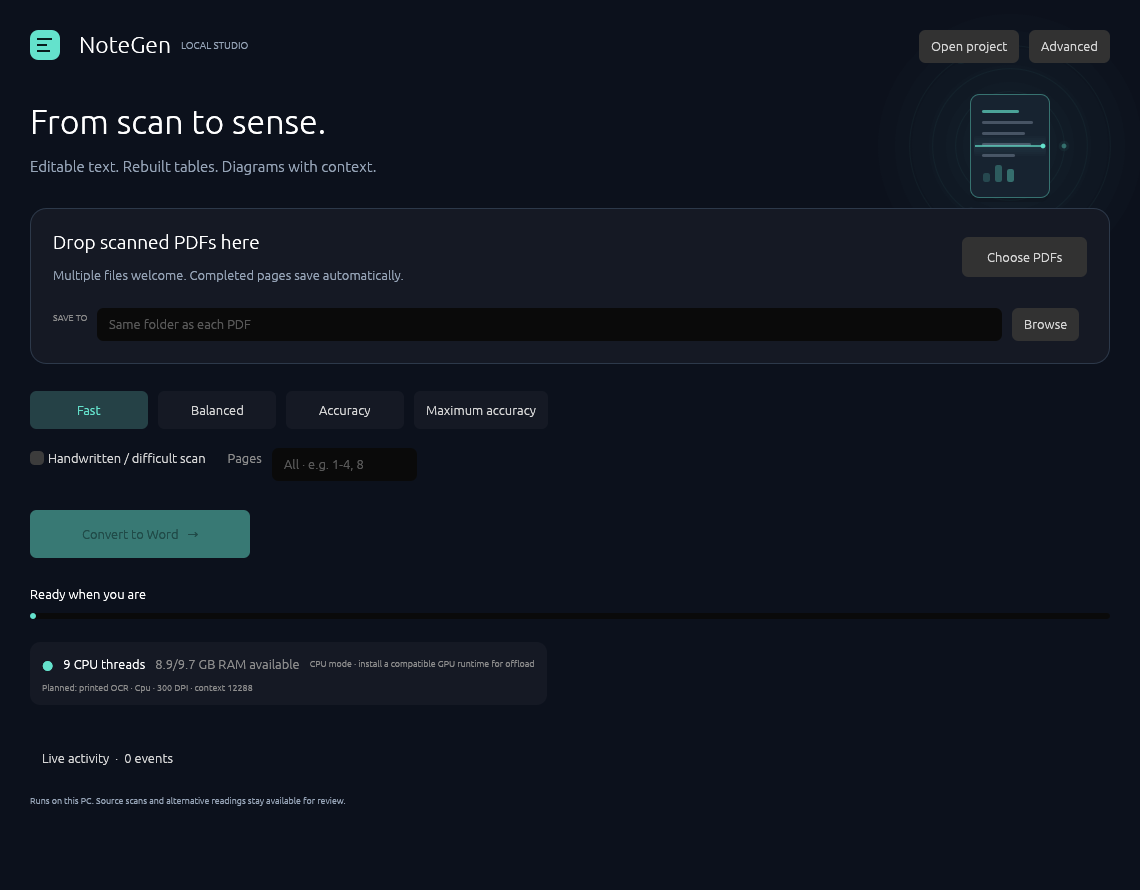
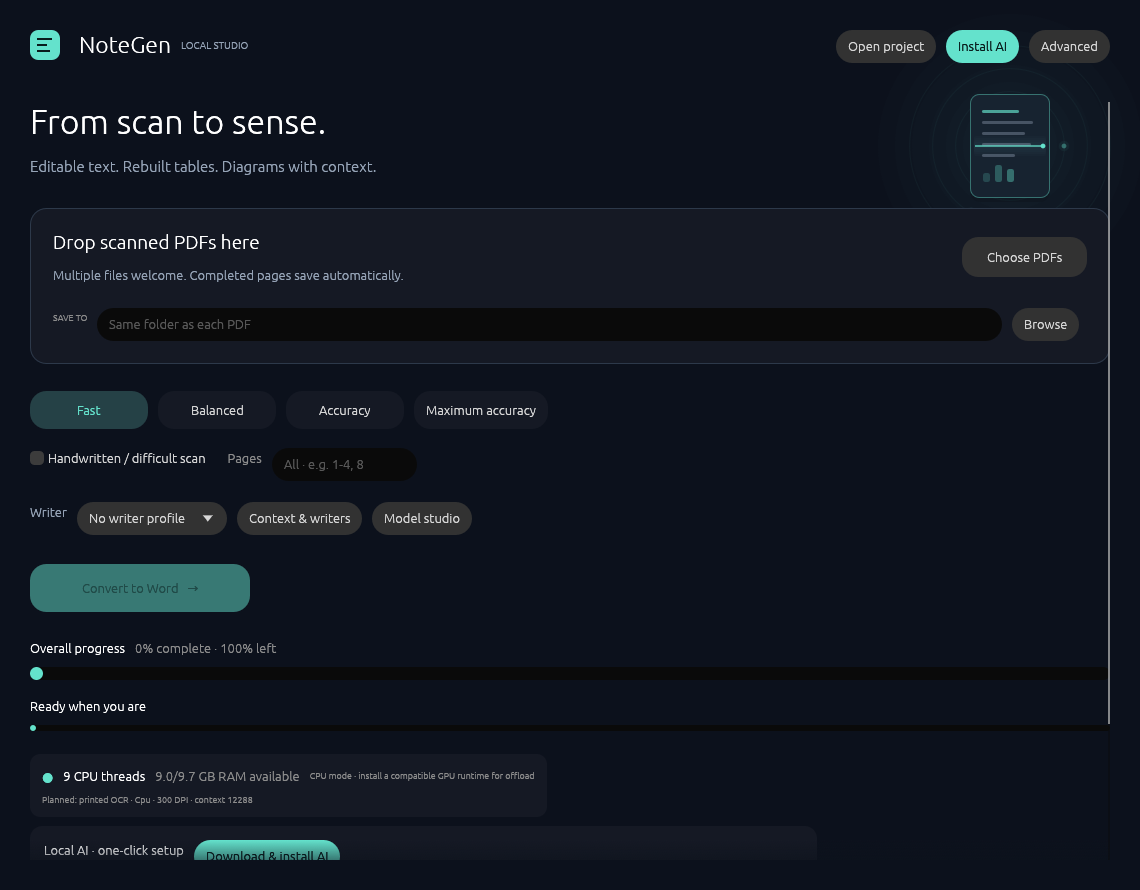
Keep one-click AI setup visible and show installation progress inside Studio
Add an accessible header setup action, improve accent-button contrast, and keep the adaptive progress bars visible in the model panel during setup. Include native desktop captures. All 93 tests and strict format/lint checks pass locally.

diff --git a/rust/src/desktop.rs b/rust/src/desktop.rs
@@ -488,19 +488,15 @@ impl Desktop {
                     .map(|(i, _)| (i, 1)),
             ));
         }
-        let preflight = true;
         self.batch_index = Some(i);
-        let count_jobs = if preflight {
-            self.state
-                .queue
-                .iter()
-                .enumerate()
-                .filter(|(_, j)| j.status == JobStatus::Pending)
-                .map(|(i, j)| (i, j.input.clone()))
-                .collect::<Vec<_>>()
-        } else {
-            vec![]
-        };
+        let count_jobs = self
+            .state
+            .queue
+            .iter()
+            .enumerate()
+            .filter(|(_, j)| j.status == JobStatus::Pending)
+            .map(|(i, j)| (i, j.input.clone()))
+            .collect::<Vec<_>>();
         let input = self.state.queue[i].input.clone();
         let folder = if self.state.output_dir.trim().is_empty() {
             input.parent().unwrap_or(Path::new(".")).to_path_buf()
@@ -652,6 +648,9 @@ impl Desktop {
                 ui.with_layout(egui::Layout::right_to_left(egui::Align::Center),|ui|{
                     if ui.button("Advanced").clicked(){
                         self.advanced_open();
+                    }
+                    if self.installed.is_empty() && ui.add_enabled(self.worker.is_none() && self.hardware.is_some(),egui::Button::new(RichText::new("Install AI").color(self.accent_text())).fill(self.accent())).on_hover_text("Download and verify the recommended local runtime and AI models. Model names and sizes are shown below.").clicked() {
+                        self.begin_ai_setup(&ctx);
                     }
                     if ui.button("Open project").clicked() && let Some(p)=rfd::FileDialog::new().set_title("Open NoteGen project.json").add_filter("NoteGen project",&["json"]).pick_file(){
                         self.open_review(p.parent().unwrap_or(Path::new(".")).into(),&ctx);
@@ -1000,7 +999,7 @@ impl Desktop {
         egui::Frame::new().fill(self.surface()).corner_radius(12).inner_margin(14).show(ui,|ui| {
             ui.horizontal_wrapped(|ui| {
                 ui.strong("Local AI · one-click setup");
-                if ui.add_enabled(self.worker.is_none() && self.hardware.is_some(),egui::Button::new("Download & install AI").fill(self.accent()).stroke(egui::Stroke::NONE)).clicked() {
+                if ui.add_enabled(self.worker.is_none() && self.hardware.is_some(),egui::Button::new(RichText::new("Download & install AI").color(self.accent_text())).fill(self.accent()).stroke(egui::Stroke::NONE)).clicked() {
                     self.begin_ai_setup(ctx);
                 }
             });

diff --git a/rust/src/studio.rs b/rust/src/studio.rs
@@ -326,6 +326,8 @@ impl Desktop {
                     ui.colored_label(Color32::from_rgb(241, 166, 137), &self.studio.error);
                 }
                 if self.busy_setup {
+                    ui.separator();
+                    self.progress_ui(ui);
                     ui.horizontal(|ui| {
                         self.activity_indicator(ui);
                         ui.label(&self.stage);
